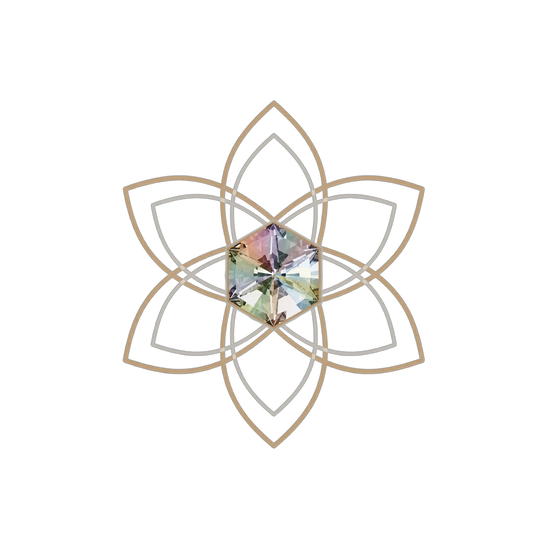
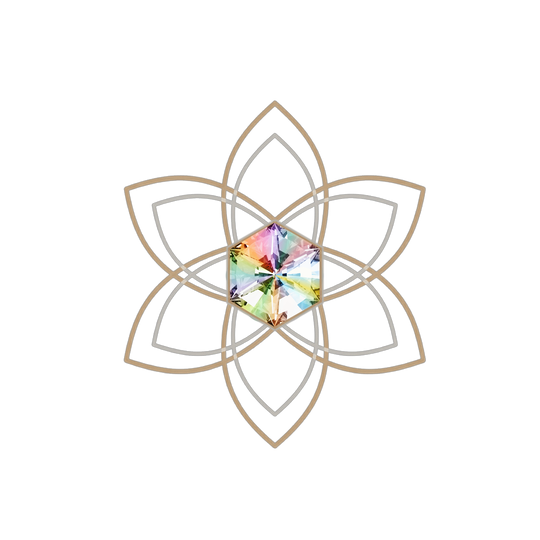
Gems fixed final

diff --git a/src/app/components/SpectralGem.tsx b/src/app/components/SpectralGem.tsx
@@ -19,6 +19,10 @@ interface SpectralGemProps {
   tint?: number;
   /** When the breathing animation is off the stone is not tinted. */
   breathingEnabled?: boolean;
+  /** How the stone is shaded: contrast deepens its lines, lift brightens it, fieldAlpha is how much of the orbs' colour it takes. */
+  contrast?: number;
+  lift?: number;
+  fieldAlpha?: number;
 }
 
 // A double bezel around the edge of the stone, drawn behind it. It copies the petals' strokes: the same two colours
@@ -37,11 +41,13 @@ const BEZEL_CANVAS = 1.12; // the bezel canvas is this much larger than the ston
 // The stone's own colour: the colours of the 16 inner orbs laid round it like a colour wheel that turns once every
 // two minutes (as the orbit does) and changes as the orbs' colours change. It is applied with the "color" blend,
 // which takes the hue from the wheel and keeps the stone's own light and dark, so the facets keep their structure.
-const FIELD_ALPHA = 0.45; // 0 = no colour, 1 = full colour
+const FIELD_ALPHA = 0.9; // 0 = no colour, 1 = full colour
 const FIELD_TURN_S = 120;
 // Structure: the stone is multiplied by itself a little, which deepens its shadows and lines without darkening its
 // highlights, and the overlay layer on top is kept light.
-const CONTRAST = 0.6;
+const CONTRAST = 0.9;
+// Lift: a little screen with the original, which brightens lights and mid-tones again after the contrast step.
+const LIFT = 0.5;
 
 const FRAME_INTERVAL_MS = 1000 / 30; // the sparkle moves ~1.6 frames a second; 30 draws a second is plenty smooth
 
@@ -54,10 +60,13 @@ export default function SpectralGem({
   size,
   cycleStart,
   technique = null,
-  clarity = 0.2, // nearly opaque: the colour is made inside the stone, not seen through it
-  sparkle = 0.25, // the overlay layer washes an opaque stone toward white, so it is kept light
+  clarity = 0.5, // half clear
+  sparkle = 0.9, // the overlay layer's strength
   tint = 0.2,
   breathingEnabled = true,
+  contrast = CONTRAST,
+  lift = LIFT,
+  fieldAlpha = FIELD_ALPHA,
 }: SpectralGemProps) {
   const bodyRef = useRef<HTMLCanvasElement>(null);
   const lightRef = useRef<HTMLCanvasElement>(null);
@@ -163,7 +172,10 @@ export default function SpectralGem({
       bctx.drawImage(off, 0, 0);
       // Structure: multiply the stone by itself a little. Shadows and lines deepen, highlights stay.
       bctx.globalCompositeOperation = 'multiply';
-      bctx.globalAlpha = CONTRAST;
+      bctx.globalAlpha = contrast;
+      bctx.drawImage(off, 0, 0);
+      bctx.globalCompositeOperation = 'screen';
+      bctx.globalAlpha = lift;
       bctx.drawImage(off, 0, 0);
       // The stone's inner colour: a wheel of the orbs' current colours, applied as hue only ("color" blend), so the
       // stone keeps its own light and dark.
@@ -177,7 +189,7 @@ export default function SpectralGem({
           wheel.addColorStop(i / n, `rgb(${Math.round(col[0])},${Math.round(col[1])},${Math.round(col[2])})`);
         }
         bctx.globalCompositeOperation = 'color';
-        bctx.globalAlpha = FIELD_ALPHA;
+        bctx.globalAlpha = fieldAlpha;
         bctx.fillStyle = wheel;
         bctx.fillRect(0, 0, px, px);
       }
@@ -251,7 +263,7 @@ export default function SpectralGem({
       reduceQuery.removeEventListener?.('change', start);
     };
     // The clock anchor and timing shape are read inside the loop, so they restart it when they change.
-  }, [gemSide, anchor, breathMs, t1, t2, t3, tint, breathingEnabled]);
+  }, [gemSide, anchor, breathMs, t1, t2, t3, tint, breathingEnabled, contrast, lift, fieldAlpha]);
 
   const place: React.CSSProperties = {
     position: 'absolute',

diff --git a/src/app/components/BreathingCounter.tsx b/src/app/components/BreathingCounter.tsx
@@ -1,4 +1,5 @@
 import { useState, useEffect } from 'react';
+import { breathCounter } from '../../lib/breathClock';
 import * as m from 'motion/react-m';
 import { ChevronDown, GripHorizontal, Minus, Square, X } from 'lucide-react';
 
@@ -46,17 +47,7 @@ export function BreathingCounter({
     if (!enabled || !show) return;
     const start = cycleStart ?? Date.now();
     const interval = setInterval(() => {
-      const cycle = IH + HI + EX + HO;
-      const d = (Date.now() - start) % cycle;
-      const ph: 'i' | 'h' | 'e' = d < IH ? 'i' : d < IH + HI ? 'h' : d < IH + HI + EX ? 'e' : 'h';
-      const cn =
-        ph === 'i'
-          ? Math.floor(d / 1000)
-          : ph === 'e'
-          ? Math.round(EX / 1000) - Math.floor((d - IH - HI) / 1000) - 1
-          : d < IH + HI
-          ? Math.floor((d - IH) / 1000)
-          : Math.floor((d - IH - HI - EX) / 1000);
+      const { count: cn, phase: ph } = breathCounter(Date.now() - start, { ih: IH, hi: HI, ex: EX, ho: HO });
       setCount(cn);
       setPhase(ph);
     }, 80);
@@ -65,7 +56,8 @@ export function BreathingCounter({
 
   if (!enabled || !show) return null;
 
-  const isEntryPulse = count === 1;
+  // The stronger pulse marks the very start of a breath (inhale, count 1), not every time the number 1 appears.
+  const isEntryPulse = count === 1 && phase === 'i';
   const pulseAnim = isEntryPulse ? 'bcd' : 'bcs';
   const phaseLabel = phase === 'i' ? 'inhale' : phase === 'e' ? 'exhale' : 'hold';
 

diff --git a/src/lib/breathClock.ts b/src/lib/breathClock.ts
@@ -108,3 +108,19 @@ export function gemMultiplyColor(
   const k = strength * (useEnvelope ? 0.35 + 0.65 * breathEnvelope(p, f) : 1);
   return hue.map((h) => 255 + (h - 255) * k) as [number, number, number];
 }
+
+export type BreathPhase = 'i' | 'h' | 'e';
+
+/**
+ * The number the breathing counter shows. Each phase counts from 1: inhale 1, 2, 3...; a hold 1, 2, 3...; exhale counts
+ * down to 1, so a 5-second inhale and exhale read 1 to 5 and then 5 to 1. `elapsedMs` is time since the shared cycle start.
+ */
+export function breathCounter(elapsedMs: number, t: BreathTiming): { count: number; phase: BreathPhase } {
+  const ih = t.ih, hi = t.hi || 0, ex = t.ex, ho = t.ho || 0;
+  const cycle = ih + hi + ex + ho;
+  const d = ((elapsedMs % cycle) + cycle) % cycle;
+  if (d < ih) return { count: Math.floor(d / 1000) + 1, phase: 'i' };
+  if (d < ih + hi) return { count: Math.floor((d - ih) / 1000) + 1, phase: 'h' };
+  if (d < ih + hi + ex) return { count: Math.max(1, Math.round(ex / 1000) - Math.floor((d - ih - hi) / 1000)), phase: 'e' };
+  return { count: Math.floor((d - ih - hi - ex) / 1000) + 1, phase: 'h' };
+}

diff --git a/src/app/components/NenyaLogo.tsx b/src/app/components/NenyaLogo.tsx
@@ -34,6 +34,8 @@ interface NenyaLogoProps {
   breathingEnabled?: boolean;
   /** Draw the gold glow around the logo. Only the large welcome and popout logos use it. */
   glow?: boolean;
+  /** Overrides for the gem's shading. Used by the design preview only. */
+  gemLook?: { clarity?: number; sparkle?: number; contrast?: number; lift?: number; fieldAlpha?: number };
 }
 
 const ORBIT_DURATION = 120; // seconds for one complete orbit
@@ -47,6 +49,7 @@ export default function NenyaLogo({
   technique = null,
   breathingEnabled = true,
   glow = false,
+  gemLook,
 }: NenyaLogoProps) {
   const flatLogoSrc = size <= SMALL_LOGO_MAX_SIZE ? nenyaLogoSmall : nenyaLogo;
 
@@ -335,6 +338,7 @@ export default function NenyaLogo({
           cycleStart={cycleStart}
           technique={technique}
           breathingEnabled={breathingEnabled}
+          {...gemLook}
         />
       )}
       {showLogo && !showValarOrbit && (
